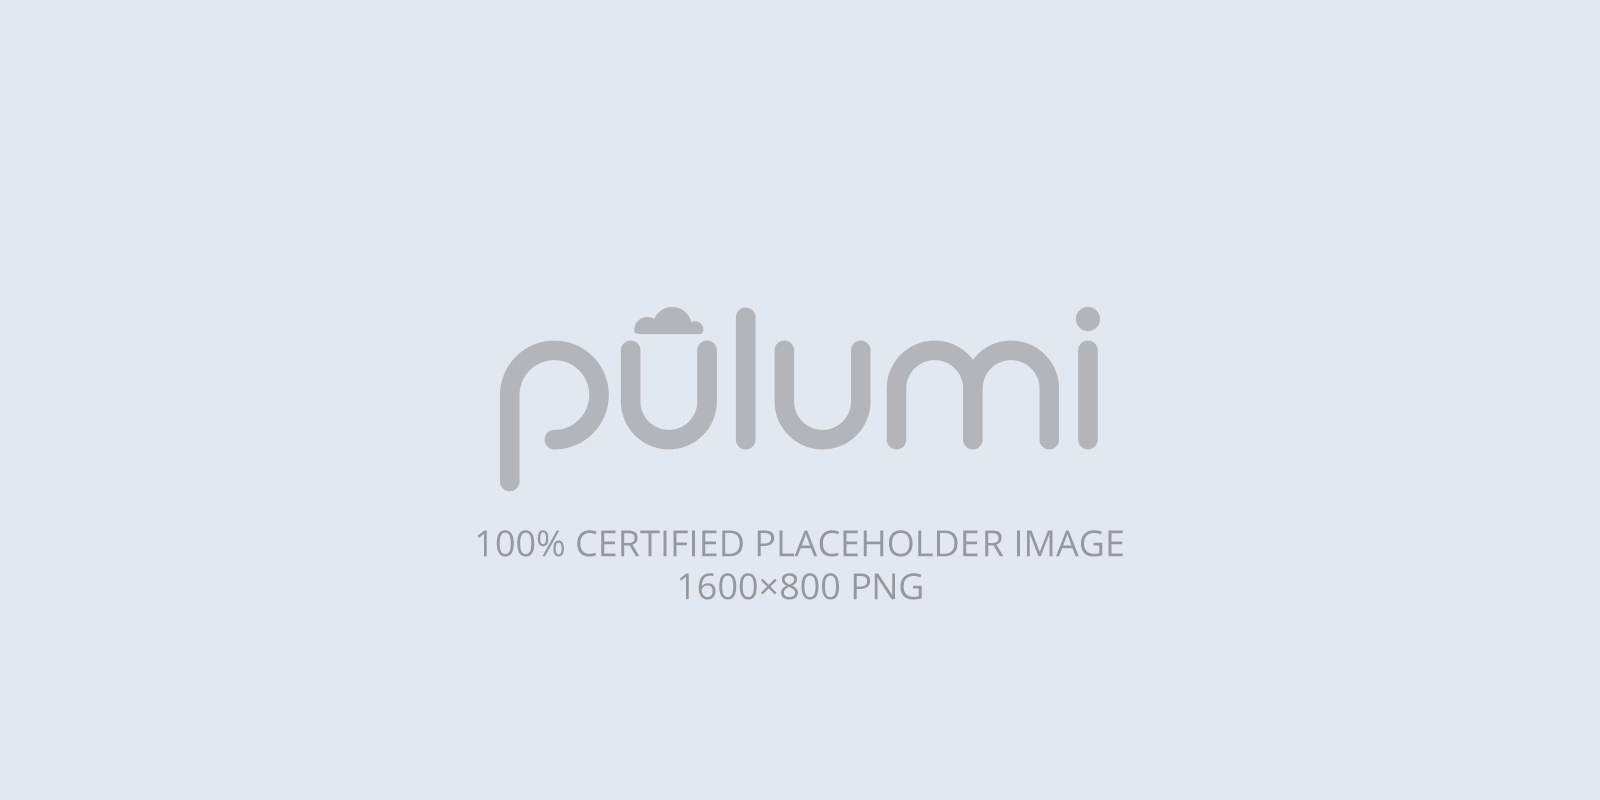
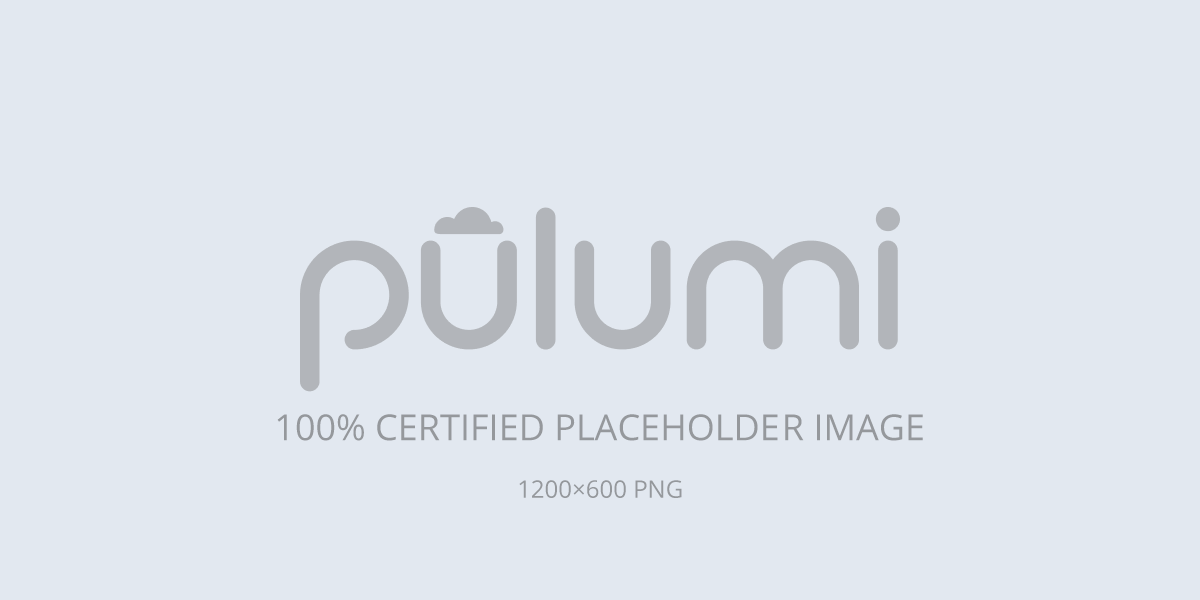
Update the recommended size for meta images

Changed region(s): [[0.2467, 0.33, 0.7708, 0.66], [0.2158, 0.66, 0.7708, 0.75], [0.4317, 0.78, 0.5858, 0.84]]

diff --git a/BLOGGING.md b/BLOGGING.md
@@ -4,7 +4,7 @@ So you're interested in contributing to the Pulumi blog? Great! Follow these ste
 
 ## Set Up Your Development Environment
 
-If you haven't already, clone this repository and [follow the instructions in the README](https://github.com/pulumi/docs#pulumi-documentation-site) to set up your environment and run the development web  server. Once you're able to run
+If you haven't already, clone this repository and [follow the instructions in the README](https://github.com/pulumi/docs#pulumi-documentation-site) to set up your environment and run the development web server. Once you're able to run
 
 ```
 make serve
@@ -16,56 +16,56 @@ and browse the site locally, you're ready to move on to the next section.
 
 1. Resist the temptation to copy-and-tweak an existing post! Instead, paste the following command into the terminal (at the root of the project) to generate a new one:
 
-    ```
-    hugo new --kind blog-post blog/my-new-post
-    ```
+   ```
+   hugo new --kind blog-post blog/my-new-post
+   ```
 
-    This will create a minimal post browsable at http://localhost:1313/blog/. You'll find the new post's source file at `content/blog/my-new-post/_index.md` containing the set of [Hugo front matter](https://gohugo.io/content-management/front-matter/) properties you'll need to get started:
+   This will create a minimal post browsable at http://localhost:1313/blog/. You'll find the new post's source file at `content/blog/my-new-post/_index.md` containing the set of [Hugo front matter](https://gohugo.io/content-management/front-matter/) properties you'll need to get started:
 
-    ```
-    ---
-    title: "My New Post"
-    date: 2019-07-17T14:26:50-07:00
-    draft: true
-    meta_image: meta.png
-    authors:
-        - joe-duffy
-    tags:
-        - some-tag
-    ---
-    ```
+   ```
+   ---
+   title: "My New Post"
+   date: 2019-07-17T14:26:50-07:00
+   draft: true
+   meta_image: meta.png
+   authors:
+       - joe-duffy
+   tags:
+       - some-tag
+   ---
+   ```
 
-    Feel free to adjust the title, authors (more on this below) and tags as appropriate. To change the post's URL, simply rename the folder containing `_index.md`; changing the folder name to `my-awesome-post`, for example, would result in a post ultimately published at https://www.pulumi.com/blog/my-awesome-post.
+   Feel free to adjust the title, authors (more on this below) and tags as appropriate. To change the post's URL, simply rename the folder containing `_index.md`; changing the folder name to `my-awesome-post`, for example, would result in a post ultimately published at https://www.pulumi.com/blog/my-awesome-post.
 
-    **Keep in mind that only posts dated prior to "now" (meaning the moment the build process begins) and _not_ marked as `draft`s will published to production.** The development server renders both future and draft content (so you can work on scheduled posts in advance), but the build process does not; see below for details on scheduling posts for future publishing.
+   **Keep in mind that only posts dated prior to "now" (meaning the moment the build process begins) and _not_ marked as `draft`s will published to production.** The development server renders both future and draft content (so you can work on scheduled posts in advance), but the build process does not; see below for details on scheduling posts for future publishing.
 
 2. If you don't already have a [TOML](https://github.com/toml-lang/toml) file [in the `team` directory](https://github.com/pulumi/docs/tree/master/data/team/team) of the repo, create one now. For Pulumi employees, that file should look something like this:
 
-    ```
-    id = "christian-nunciato"
-    name = "Christian Nunciato"
-    title = "Software Engineer"
-    status = "active"
+   ```
+   id = "christian-nunciato"
+   name = "Christian Nunciato"
+   title = "Software Engineer"
+   status = "active"
 
-    [social]
-    github = "cnunciato"
-    linkedin = "cnunciato"
-    twitter = "cnunciato"
-    ```
+   [social]
+   github = "cnunciato"
+   linkedin = "cnunciato"
+   twitter = "cnunciato"
+   ```
 
-    For community contributors, it's mostly the same, but with a `status` of `guest`, and a more informative `title`:
+   For community contributors, it's mostly the same, but with a `status` of `guest`, and a more informative `title`:
 
-    ```
-    id = "mikhail-shilkov"
-    name = "Mikhail Shilkov"
-    title = "Microsoft Azure MVP and early Pulumi user"
-    status = "guest"
-    ...
-    ```
+   ```
+   id = "mikhail-shilkov"
+   name = "Mikhail Shilkov"
+   title = "Microsoft Azure MVP and early Pulumi user"
+   status = "guest"
+   ...
+   ```
 
-    The `social` section, and the items within it, are optional.
+   The `social` section, and the items within it, are optional.
 
-    Once your team-member file's been created, update the new post's `authors` property to refer to your team member `id` string. If you're still running the development server, you should see the change reflected in the browser immediately.
+   Once your team-member file's been created, update the new post's `authors` property to refer to your team member `id` string. If you're still running the development server, you should see the change reflected in the browser immediately.
 
 ## Write Your Post
 
@@ -102,9 +102,9 @@ When you generate a new post, an [OpenGraph](http://ogp.me/) placeholder image i
 
 For best results, we suggest the following specs for the `meta_image`, largely based on [Twitter's dev docs](https://developer.twitter.com/en/docs/tweets/optimize-with-cards/overview/abouts-cards):
 
-Aspect Ratio  | Minimum Size  | Format  | Background
-------------- | ------------- | ------- | ------------------------
-2:1           | 1600×800      | PNG     | Opaque (No Transparency)
+| Aspect Ratio | Recommended Size | Format | Background               |
+| ------------ | ---------------- | ------ | ------------------------ |
+| 2:1          | 1200×600         | PNG    | Opaque (No Transparency) |
 
 Remember to replace the `meta_image` placeholder (or remove the property altogether and delete the placeholder `meta.png` file) before submitting your post.
 
